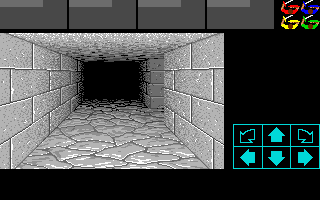
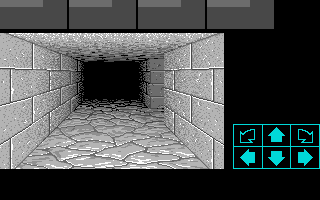
Debt C70: the top view of positions has a square for a living champion only

Changed region(s): [[0.875, 0.0, 1.0, 0.15]]

diff --git a/tools/dump-marching-order.ts b/tools/dump-marching-order.ts
@@ -212,6 +212,38 @@ async function main(): Promise<void> {
   check(dying.partyPosition === 1, 'the dead champion should stay where they died');
   check(state.champions[0].partyPosition === 1, 'the champion on square 0 should have moved to square 1');
 
+  // ---- The top view has a square for a living champion only: the dead champion 1 and
+  //      the empty fourth box have none (`Character.cpp:1308`, `:2664-2667`), so the dead
+  //      champion does not paint over champion 0, who shares their square. The screen is
+  //      cleared first, as `GameScreen.presentViewport` does.
+  screen.pixels.fill(0);
+  drawPartyStatus(ui);
+  const byte1386 = g232.byte1386;
+  const squares: string[] = [];
+  for (let sq = 0; sq < 4; sq++) {
+    const r = g232.wRectPos1454[sq];
+    const counts = [0, 0, 0, 0];
+    let lit = 0;
+    for (let y = r.y1; y <= r.y2; y++) {
+      for (let x = r.x1; x <= r.x2; x++) {
+        const p = screen.pixels[y * 320 + x];
+        if (p !== 0) lit++;
+        for (let c = 0; c < 4; c++) if (p === byte1386[c]) counts[c]++;
+      }
+    }
+    const owner = state.champions.findIndex((c) => c.attributes.health !== 0 && c.partyPosition === sq);
+    squares.push(`${sq}:${owner < 0 ? '-' : owner}/${lit}`);
+    if (owner < 0) {
+      check(lit === 0, `square ${sq} has no living champion and should be black (${lit} pixels lit)`);
+    } else {
+      check(counts[owner] > 0, `square ${sq} should carry champion ${owner}'s colour ${byte1386[owner]}`);
+      for (let c = 0; c < 4; c++) {
+        if (c !== owner) check(counts[c] === 0, `square ${sq} should carry no colour of box ${c} (${counts[c]} pixels)`);
+      }
+    }
+  }
+  console.log(['top view', 'square:owner/lit', squares.join(' ')].join('\t'));
+
   // ---- `GameScreen.setPartyState` empties the hand for another game (`CSBCode.cpp:10485`)
   //      — covered by reading; it has no engine to drive here.
 

diff --git a/src/renderer/ui/Character.ts b/src/renderer/ui/Character.ts
@@ -385,9 +385,13 @@ export function drawPartyStatus(ui: UIState): void {
       drawShieldDots(ui, baseX, champion);
     }
 
-    const charPos = champion?.partyPosition ?? chIdx;
-    const dir = (charPos + 4 - facing) & 3;
-    drawPositionSquare(ui, ui.screenIndexBuffer, g232.wRectPos1454[dir], chIdx, champion, facing);
+    // `DrawCharacterState` draws the square inside `if (pcA3->HP() != 0)`, and only for a
+    // champion in the party (`doc/CSBwin-src/Character.cpp:1308`, `:1457-1475`): an empty
+    // box has none, and `KillCharacter` blanks a dead champion's (`:2664-2667`).
+    if (champion && champion.attributes.health !== 0) {
+      const dir = (champion.partyPosition + 4 - facing) & 3;
+      drawPositionSquare(ui, ui.screenIndexBuffer, g232.wRectPos1454[dir], chIdx, champion, facing);
+    }
   }
 
   // `TAG0025a6` blanks the square it picks a champion up from, and `DrawCharacterState`

diff --git a/DEBT.md b/DEBT.md
@@ -74,7 +74,6 @@ In payoff order: the first row is the next item.
 
 | ID | Item | Size | Status |
 | --- | --- | --- | --- |
-| C70 | The top view of positions has a square for nobody | S | ⏳ |
 | C71 | A resumed game has no "GAME LOADED, READY TO PLAY." | S | ⏳ |
 | C73 | A room's message decodes without the escape tables | S | ⏳ |
 | C74 | A keyed attack makes no tick due | S | ⏳ |
@@ -116,20 +115,6 @@ Empty. New architecture debt goes here, and jumps the queue.
 ## C — Known divergences from CSBWin
 
 Taken in the index's order (see "Priority"), now that tiers D and E are empty.
-
-### C70 ⏳ The top view of positions has a square for nobody
-
-CSBWin draws a champion's square in the top view of positions from `DrawCharacterState`,
-once per champion in the party, and only inside `if (pcA3->HP() != 0)`
-(`doc/CSBwin-src/Character.cpp:1308-1513`): a dead champion has none, their square blanked
-by `KillCharacter` (`:2663-2666`). The port's `drawPartyStatus` (`src/renderer/ui/Character.ts:390`)
-draws one for each of the four boxes, alive, dead or empty, an empty box's in the slot of
-its own index. So the golden frame `01-boot` shows four coloured squares over an empty
-party, where CSBWin shows none; with three champions, the empty fourth box paints its
-colour, 14, over whichever champion stands in position 3; and a dead champion keeps a
-square.
-Draw it for a living champion only, and capture `01-boot` again. Evidence: the frame, and
-a row in `tools/dump-marching-order.ts` that draws a party with a dead champion.
 
 ### C71 ⏳ A resumed game has no "GAME LOADED, READY TO PLAY."
 

diff --git a/doc/CSBWIN_UI_REFERENCE.md b/doc/CSBWIN_UI_REFERENCE.md
@@ -25,6 +25,7 @@ This document lists UI rendering facts that are directly visible in the CSBWin C
 
 - The facing/position indicator uses `wRectPos1454[4]`, filled with the character color, and overlays basic graphic 28 with a 19-pixel X offset per facing (`doc/CSBwin-src/Character.cpp:1464`, `doc/CSBwin-src/Character.cpp:1468`, `doc/CSBwin-src/Character.cpp:1471`).
 - `wRectPos1454` is part of graphic `0x232` (`doc/CSBwin-src/Data.h:1408`).
+- Only a living champion has a square: `DrawCharacterState` draws it inside `if (pcA3->HP() != 0)` (`doc/CSBwin-src/Character.cpp:1308`), and `KillCharacter` fills a dying champion's with colour 0 (`doc/CSBwin-src/Character.cpp:2664-2667`). A box with no champion has none either, so an empty party's top view is black.
 
 ## Attack buttons (right panel)
 
